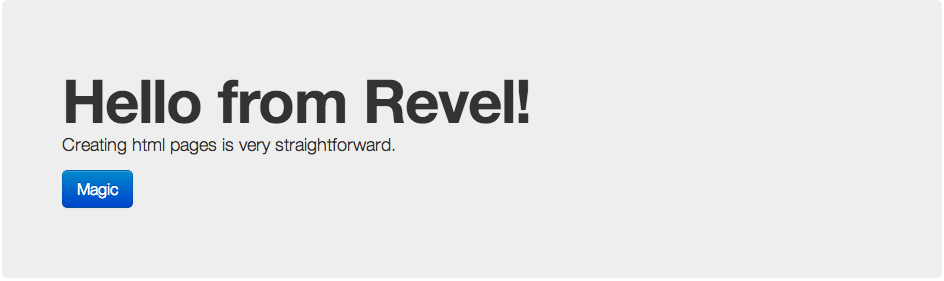
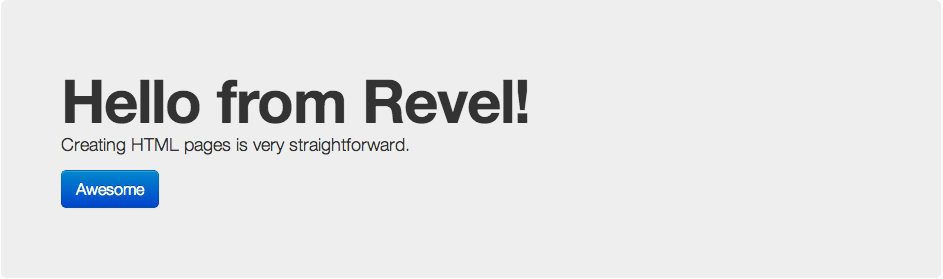
Change revel custom content image and copy

Changed region(s): [[0.0615, 0.2867, 0.5536, 0.4588], [0.0615, 0.4875, 0.4305, 0.5448], [0.0615, 0.6022, 0.1845, 0.7455]]

diff --git a/_drafts/building-a-go-web-app-with-revel-on-heroku.md b/_drafts/building-a-go-web-app-with-revel-on-heroku.md
@@ -78,8 +78,8 @@ built in templating for html rendering.
 <div class="container">
   <div class="hero-unit">
     <h1>Hello from Revel!</h1>
-    <p>Creating html pages is very straightforward.</p>
-    <p><a class="btn btn-primary btn-large" role="button">Magic</a></p>
+    <p>Creating HTML pages is very straightforward.</p>
+    <p><a class="btn btn-primary btn-large" role="button">Awesome</a></p>
   </div>
 
   <div class="row">
